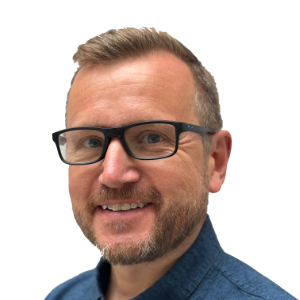
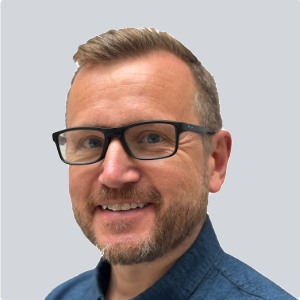
Edit Ellie's text, Jamie's photo

diff --git a/src/routes/about/team/+page.svelte b/src/routes/about/team/+page.svelte
@@ -10,6 +10,7 @@
             <a href="#jamie" class="jump-btn">Jamie Coleman</a>
             <a href="#stephen" class="jump-btn">Stephen Tomlin</a>
             <a href="#stephanie" class="jump-btn">Stephanie Klein</a>
+            <a href="#ellie" class="jump-btn">Ellie Merrison</a>
             <a href="#becky" class="jump-btn">Rebecca Osselton</a>
         </div>
     </nav>
@@ -76,7 +77,7 @@
             </div>
             <div class="bio-content">
                 <h2>Ellie Merrison</h2>
-                <span class="role-badge">Pharmacy Informatics Developer</span>
+                <span class="role-badge">ePRaSE Lead Technician</span>
                 <p>Ellie is a Medicines Management System Developer within the Pharmacy Informatics team at The Newcastle upon Tyne Hospitals NHS Foundation Trust. A qualified Pharmacy Technician with over seven years' experience, she has held roles including Dispensary Accuracy Checker and Homecare Project Developer. With more than 16 years of NHS experience, Ellie also has a strong background in data analysis, having worked in Clinical Audit and Cancer Information services. She was part of an award-winning team that received a National Patient Safety Award in 2013 for work to reduce incident harm rates, which subsequently led to the development of a campaign to reduce Hospital Acquired Pneumonia across Northumbria Healthcare NHS Foundation Trust.</p>
             </div>
         </div>
